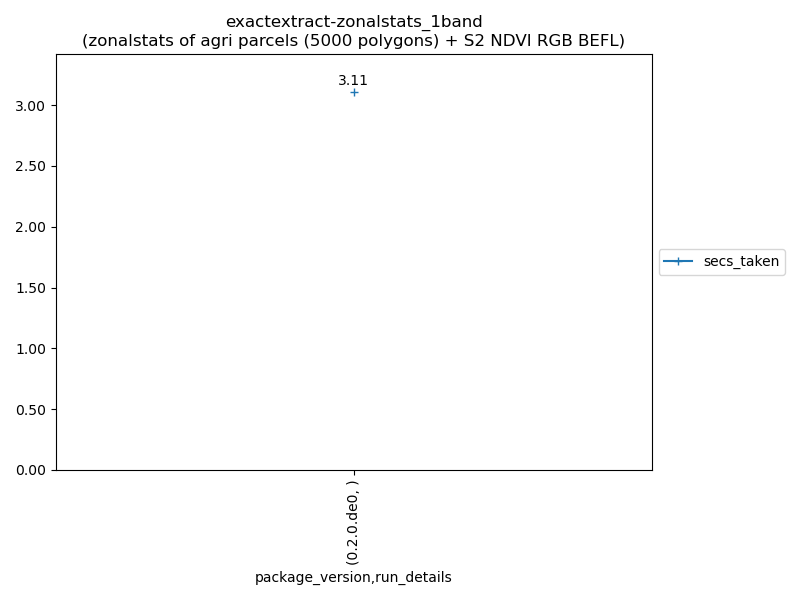
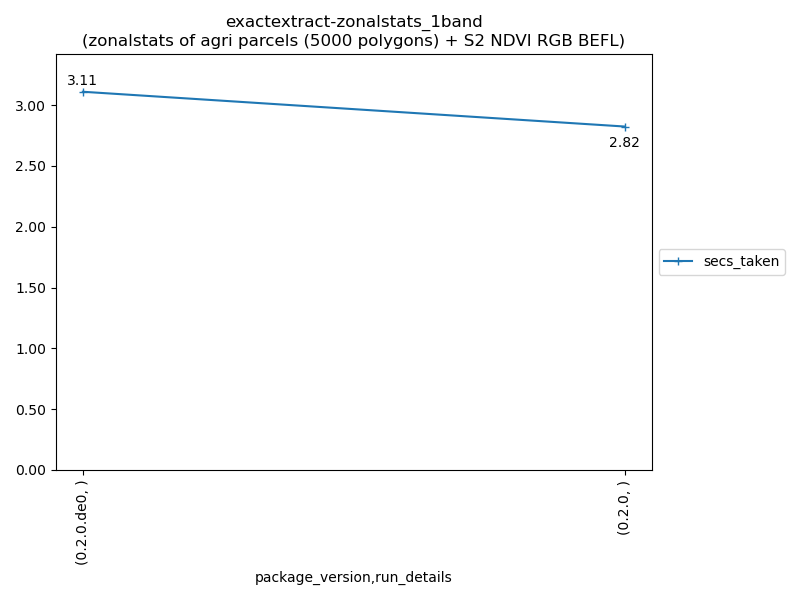
MAINT: rerun exactextract benchmark with released version (#41)

diff --git a/reporter.py b/reporter.py
@@ -264,8 +264,8 @@ def save_chart(
 
 
 if __name__ == "__main__":
-    results_dir = Path(__file__).resolve().parent / "results_vector_ops"
-    # results_dir = Path(__file__).resolve().parent / "results_zonalstats"
+    # results_dir = Path(__file__).resolve().parent / "results_vector_ops"
+    results_dir = Path(__file__).resolve().parent / "results_zonalstats"
     results_path = results_dir / "benchmark_results.csv"
     output_dir = results_dir
     generate_reports(results_path, output_dir)
